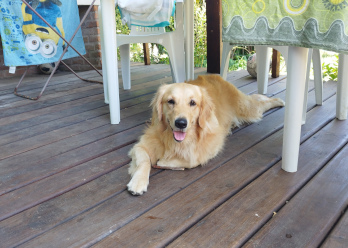
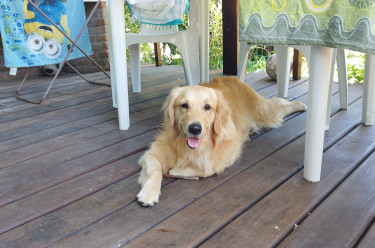
dimensión foto lina

diff --git a/src/components/servicios/Servicios.jsx b/src/components/servicios/Servicios.jsx
@@ -4,7 +4,7 @@ import vista from "./vistaSup.png";
 import living from "./living.jpeg";
 import dorm from "./dorm.jpeg";
 import deck from "./deck.jpeg";
-import lina from "./lina.jpg";
+import lina from "./lina2.jpg";
 
 function Servicios() {
   return (
